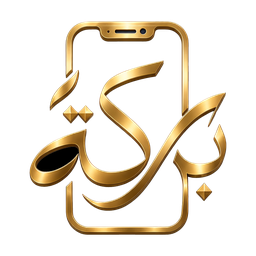
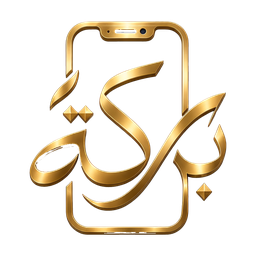
brand(emblem): through-hole knockout (ta-marbuta counter + pockets); lens/speaker preserved

diff --git a/scripts/make-brand-assets.py b/scripts/make-brand-assets.py
@@ -26,6 +26,43 @@ for seed in [(0, 0), (im.width - 1, 0), (0, im.height - 1), (im.width - 1, im.he
     ImageDraw.floodfill(bg, seed, 128, thresh=0)
 bgmask = bg.point(lambda v: 255 if v == 128 else 0)
 
+# Through-hole knockout (ta-marbuta counter + enclosed bg pockets): interior
+# dark blobs >= 300px (@1/4 scale) are negative space and become transparent.
+# Smaller top-band details (camera lens, speaker, sensor) stay opaque.
+from collections import deque
+sw, sh = im.width // 4, im.height // 4
+small = dark.resize((sw, sh), Image.BILINEAR).point(lambda v: 255 if v > 128 else 0)
+sbg = small.copy()
+for seed in [(0, 0), (sw - 1, 0), (0, sh - 1), (sw - 1, sh - 1)]:
+    ImageDraw.floodfill(sbg, seed, 128, thresh=0)
+interior = ImageChops.darker(small, sbg.point(lambda v: 0 if v == 128 else 255))
+data = bytearray(interior.tobytes())
+kept = bytearray(sw * sh)
+for i in range(sw * sh):
+    if data[i] == 0:
+        continue
+    q = deque([i])
+    data[i] = 0
+    members = [i]
+    while q:
+        p = q.popleft()
+        x, y = p % sw, p // sw
+        if x > 0 and data[p - 1]:
+            data[p - 1] = 0; q.append(p - 1); members.append(p - 1)
+        if x < sw - 1 and data[p + 1]:
+            data[p + 1] = 0; q.append(p + 1); members.append(p + 1)
+        if y > 0 and data[p - sw]:
+            data[p - sw] = 0; q.append(p - sw); members.append(p - sw)
+        if y < sh - 1 and data[p + sw]:
+            data[p + sw] = 0; q.append(p + sw); members.append(p + sw)
+    if len(members) >= 300:
+        for m in members:
+            kept[m] = 255
+holes = Image.frombytes('L', (sw, sh), bytes(kept)).resize(im.size, Image.NEAREST)
+holes = ImageChops.darker(holes, dark)  # crisp edges: only truly-dark cores
+bgmask = ImageChops.lighter(bgmask, holes)
+print('HOLES_REMOVED')
+
 alpha = bgmask.point(lambda v: 0 if v > 0 else 255)
 alpha = alpha.filter(ImageFilter.MinFilter(3))  # trim 1px halo fringe
 im.putalpha(alpha)
